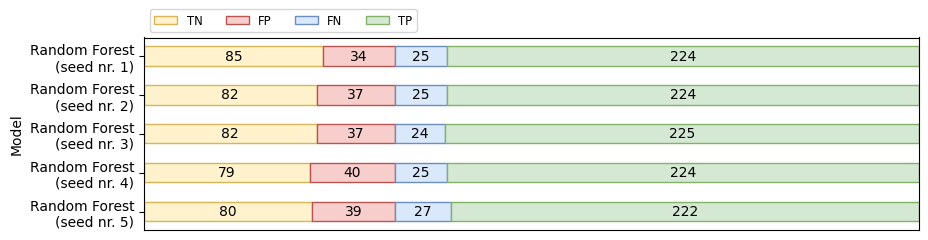
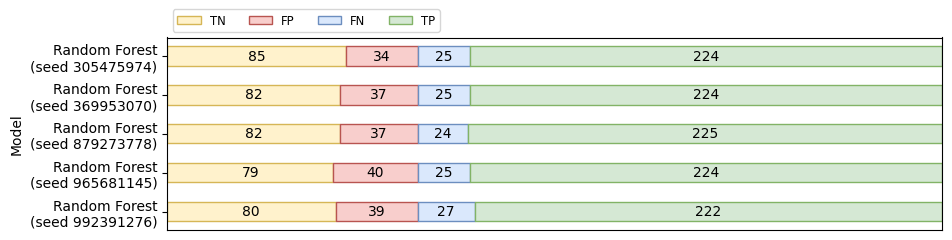
new numbers

diff --git a/hist_preds_and_vals_example.py b/hist_preds_and_vals_example.py
@@ -56,7 +56,7 @@ def merge_format_long_seed(dirname, mini, maxi):
                     else:
                         fp += 1
             print(tn, fp, fn, tp)
-            results[model + "\n(seed nr. " + str(seed_list.index(seed) + 1) + ")"] = [tn, fp, fn, tp]
+            results[model + "\n(seed " + str(seed) + ")"] = [tn, fp, fn, tp]
     survey(results)
     plt.savefig(dirname + "/" + str(mini) + "_" + str(maxi) + "/" + str(mini) + "_" + str(maxi) + "_all_models_seeds_new.png", bbox_inches = "tight")
     plt.close()
